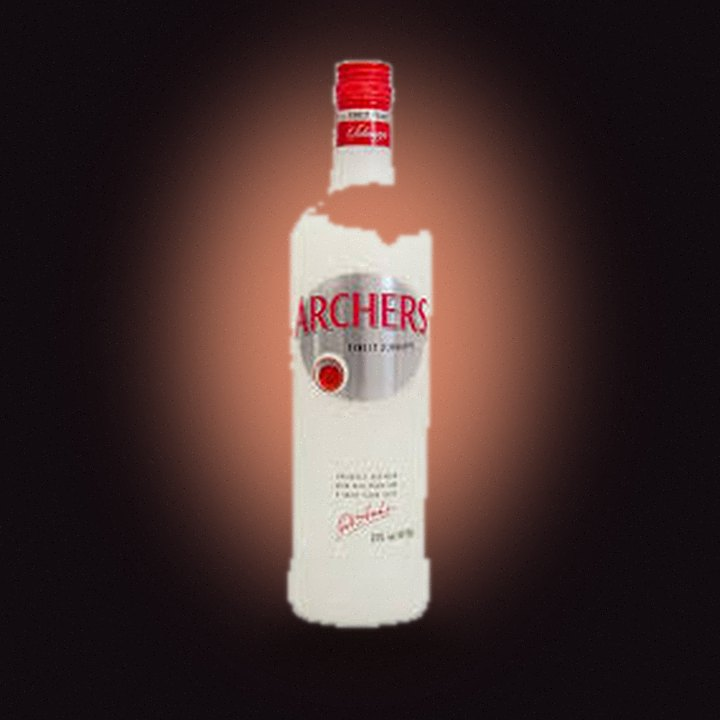
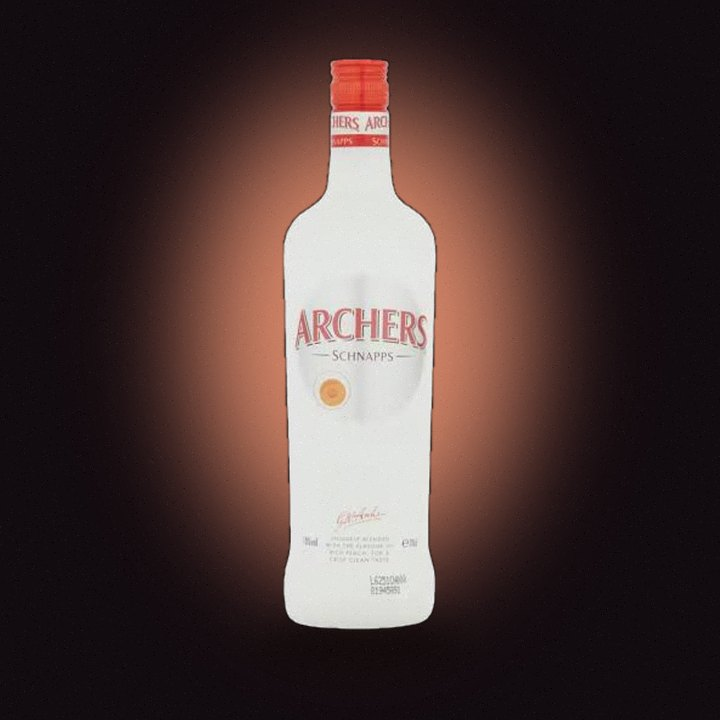
Add Southern Comfort Black, and replace two weak photos
Southern Comfort Black is a separate line from the Original and is the
third spirit absent from the supplied menu, after the whiskey and the
Original. Three now, from one category that wasn't on the menu at all.

Archers is replaced with a 554px frame against black — the previous one
was 205px and the softest image on the site. Black keys exactly as
cleanly as white, so nothing had to change to accept it, which is worth
knowing for any reshoots.

Southern Comfort Original is replaced with a frame that has its cap
attached, so the crop that worked around the floating cap in the old
supplied image is no longer needed.

Malibu is left alone: the replacement is the same 225px as the one in
place, so swapping it would trade one soft image for another.

Claude-Session: https://claude.ai/code/session_01Mz6MrYXojBN2KDtkiMzN2P

Changed region(s): [[0.3667, 0.0611, 0.6111, 0.8861]]

diff --git a/js/drinks-data.js b/js/drinks-data.js
@@ -47,8 +47,10 @@ export var DRINKS = [
            list is missing. */
         { name: "Jack Daniel's", tone: "amber",
           photo: "assets/images/drinks/jack-daniels.jpg" },
-        // also missing from the supplied menu — that is two now
+        // also missing from the supplied menu — that is three now, counting
+        // both Southern Comforts as the separate lines they are
         { name: "Southern Comfort", tone: "sunrise" },
+        { name: "Southern Comfort Black", tone: "espresso" },
         // "Tequila" is a shooter as well, so the bottle has its own file and
         // the shooter card keeps its glass
         { name: "Tequila", tone: "ice",

diff --git a/README.md b/README.md
@@ -178,8 +178,8 @@ Beyond the original hero/floors/contact, this pass adds:
   them at all, which the renderer handles by simply not drawing one.
   **Draught and Champagne are complete too.** Spirits is down to Grey
   Goose, Tequila, Tequila Rose and Tequila & Mixer.
-  **Jack Daniel's and Southern Comfort are on the site but were not on the
-  menu the venue supplied** — there was no whiskey on it at all. It was added because the
+  **Jack Daniel's, Southern Comfort and Southern Comfort Black are on the
+  site but were not on the menu the venue supplied** — there was no whiskey on it at all. It was added because the
   bottle turned up, and it is flagged in `drinks-data.js` as worth
   checking: if whiskey was missed, other lines may have been too. Rekorderlig appears in both Bottles and Draught and
   shares one file between them through the per-item `photo` field.
